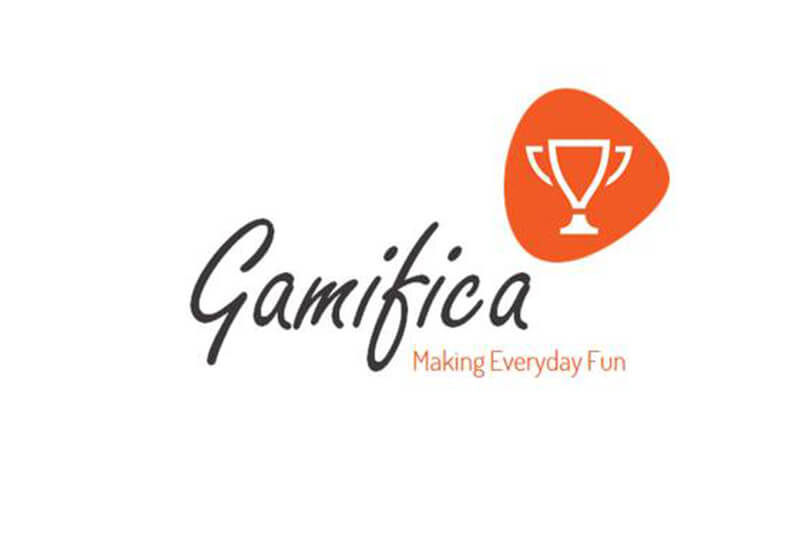
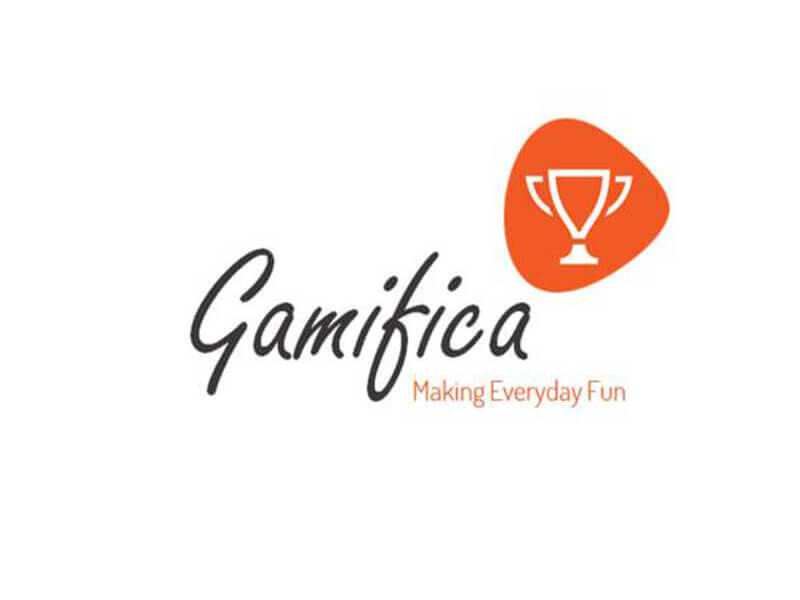
Gamifica

diff --git a/index.html b/index.html
@@ -331,7 +331,7 @@
                     <h3>Other works</h3></div>
                 <div class="grid-items portfolio-section preload">
                     <article class="item column four" data-groups='["fun", "icons"]'>
-                        <figure><img src="img/porto/gamifica.jpg" style="height:240px"alt=""></figure>
+                        <figure><img src="img/porto/gamifica.jpg" alt=""></figure>
                         <a class="overlay" href="#work">
                             <div class="overlay-content">
                                 <div class="post-type"><i class="icon-game-controller"></i></div>
